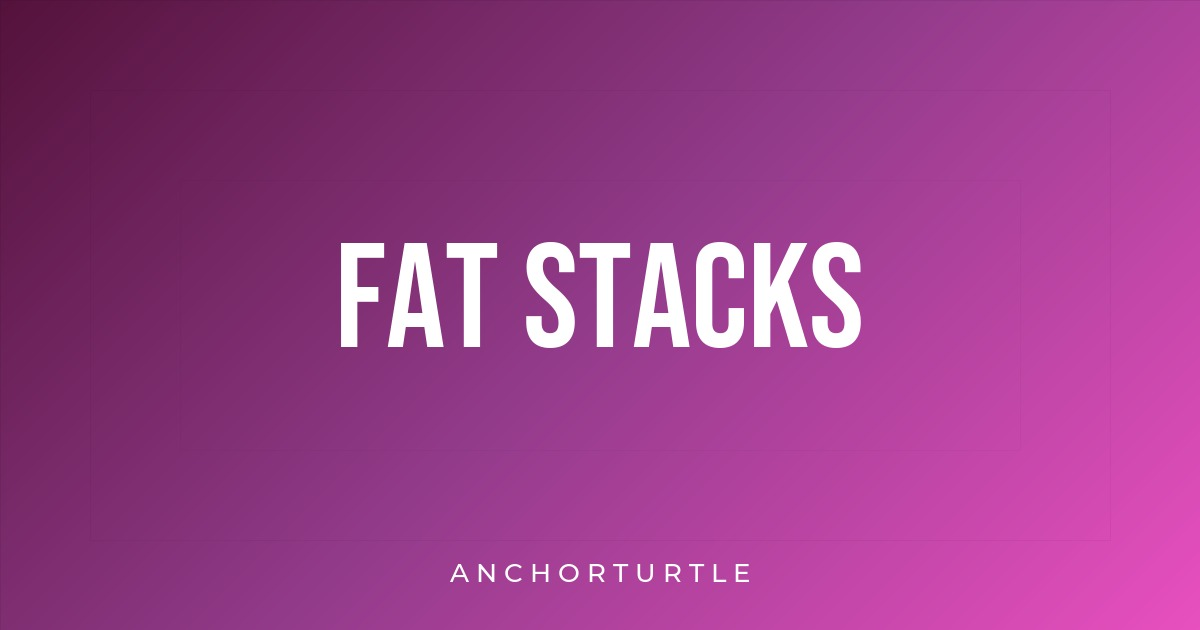
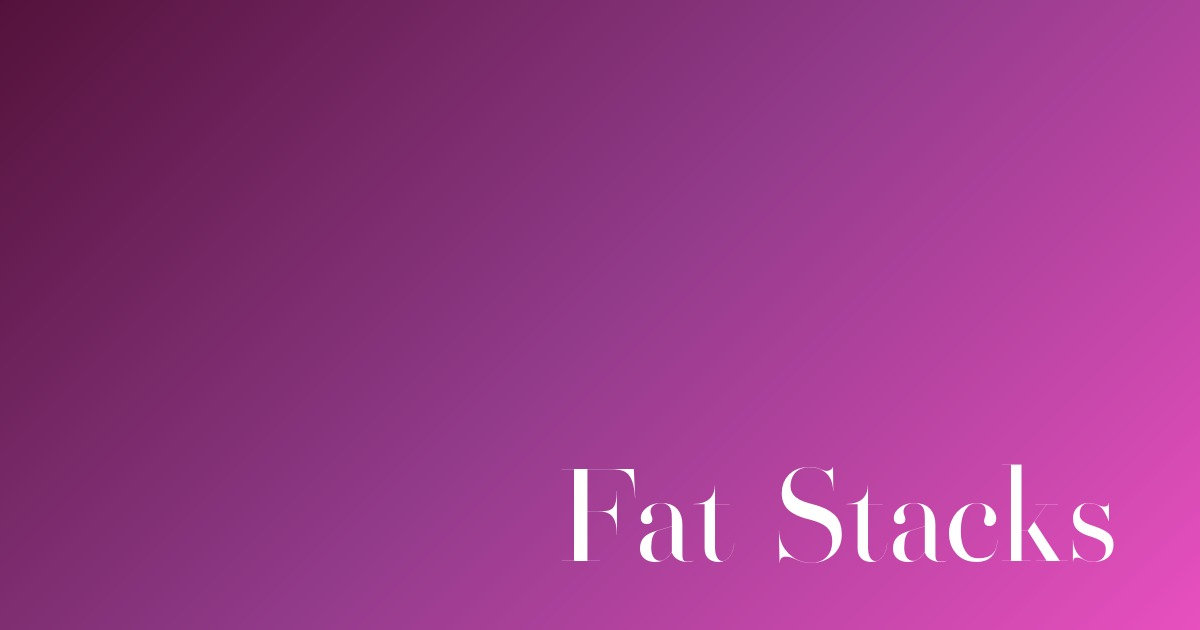
Song OG cards: title only (no wordmark), bottom-right, modern serif (Didot)

Changed region(s): [[0.2775, 0.3619, 0.74, 0.573], [0.6475, 0.7238, 0.925, 0.9048], [0.37, 0.7238, 0.6167, 0.9349]]

diff --git a/scripts/make_song_og.py b/scripts/make_song_og.py
@@ -1,8 +1,11 @@
-"""1200x630 link-preview card: per-song gradient + song title.
+"""1200x630 link-preview card: per-song gradient + song title (bottom-right, serif).
 
 Generates one images/og/song/<slug>.jpg per track. Gradient colors come from
 the SAME palette table + hash as js/space3d.js (PALETTES, hashStr) so the
 share card matches the song's planet world.
+
+Design (james 2026-08-09): just the song name, bottom-right of the gradient,
+modern serif. No artist, no wordmark.
 
 USAGE: python scripts/make_song_og.py
 """
@@ -10,8 +13,8 @@ from PIL import Image, ImageDraw, ImageFont
 import os
 
 TARGET = (1200, 630)
-TITLE_FONT = "C:/Windows/Fonts/BebasNeue-Regular.ttf"
-SUB_FONT = "C:/Windows/Fonts/Montserrat-Medium.ttf"
+# Modern serif. Swap path to change look (e.g. AGaramondPro-Bold.otf for classic).
+TITLE_FONT = "C:/Windows/Fonts/HenriDidot.otf"
 
 # Keep in sync with the track maps in functions/song/[slug].js + functions/og/song/[slug].js
 SLUGS = [
@@ -51,6 +54,11 @@ PALETTES = [
     ("#1B0B3A", "#6E2FB8", "#FF9ECF"),
 ]
 
+MARGIN_R = 84   # title block distance from right edge
+MARGIN_B = 66   # title block distance from bottom edge
+MAX_W = 1010    # max title width before auto-shrink
+MAX_FONT = 132
+
 
 def hash_str(s):
     h = 0
@@ -68,12 +76,23 @@ def lerp(c1, c2, t):
     return tuple(int(round(a + (b - a) * t)) for a, b in zip(c1, c2))
 
 
+def fit_font(draw, title, max_w, max_font):
+    size = max_font
+    while size > 40:
+        f = ImageFont.truetype(TITLE_FONT, size)
+        bbox = draw.textbbox((0, 0), title, font=f)
+        if bbox[2] - bbox[0] <= max_w:
+            return f, bbox
+        size -= 4
+    f = ImageFont.truetype(TITLE_FONT, 40)
+    return f, draw.textbbox((0, 0), title, font=f)
+
+
 def make_card(slug, title, out_path):
     palette = PALETTES[hash_str(slug) % len(PALETTES)]
     surf, swirl, energy = (hex_to_rgb(c) for c in palette)
 
     # Diagonal gradient: top-left surface -> bottom-right energy, swirl mid-stop.
-    # Deep + dark so white title text pops (matches planet world, not neon-flat).
     img = Image.new("RGB", TARGET)
     px = img.load()
     W, H = TARGET
@@ -88,24 +107,13 @@ def make_card(slug, title, out_path):
 
     draw = ImageDraw.Draw(img, "RGBA")
 
-    # Very subtle vignette depth (keeps edges from looking flat)
-    for i, alpha in ((0, 18), (90, 12), (180, 8)):
-        draw.rectangle([i, i, W - i, H - i], outline=(0, 0, 0, alpha), width=1)
-
-    # Title (BebasNeue, big, centered, white)
-    title_font = ImageFont.truetype(TITLE_FONT, 148)
-    bbox = draw.textbbox((0, 0), title, font=title_font)
+    # Song title only — bottom-right, modern serif, white.
+    f, bbox = fit_font(draw, title, MAX_W, MAX_FONT)
     tw, th = bbox[2] - bbox[0], bbox[3] - bbox[1]
-    tx = (W - tw) // 2 - bbox[0]
-    ty = (H - th) // 2 - bbox[1] - 20
-    draw.text((tx, ty), title, font=title_font, fill=(255, 255, 255, 255))
-
-    # Tiny site wordmark (bottom center)
-    sub_font = ImageFont.truetype(SUB_FONT, 26)
-    sub = "A N C H O R T U R T L E"
-    bbox2 = draw.textbbox((0, 0), sub, font=sub_font)
-    sw = bbox2[2] - bbox2[0]
-    draw.text(((W - sw) // 2 - bbox2[0], H - 74), sub, font=sub_font, fill=(255, 255, 255, 130))
+    # Right-align: text ends MARGIN_R from right edge, baseline sits MARGIN_B up.
+    tx = W - MARGIN_R - tw - bbox[0]
+    ty = H - MARGIN_B - th - bbox[1]
+    draw.text((tx, ty), title, font=f, fill=(255, 255, 255, 255))
 
     img.save(out_path, quality=92)
 
